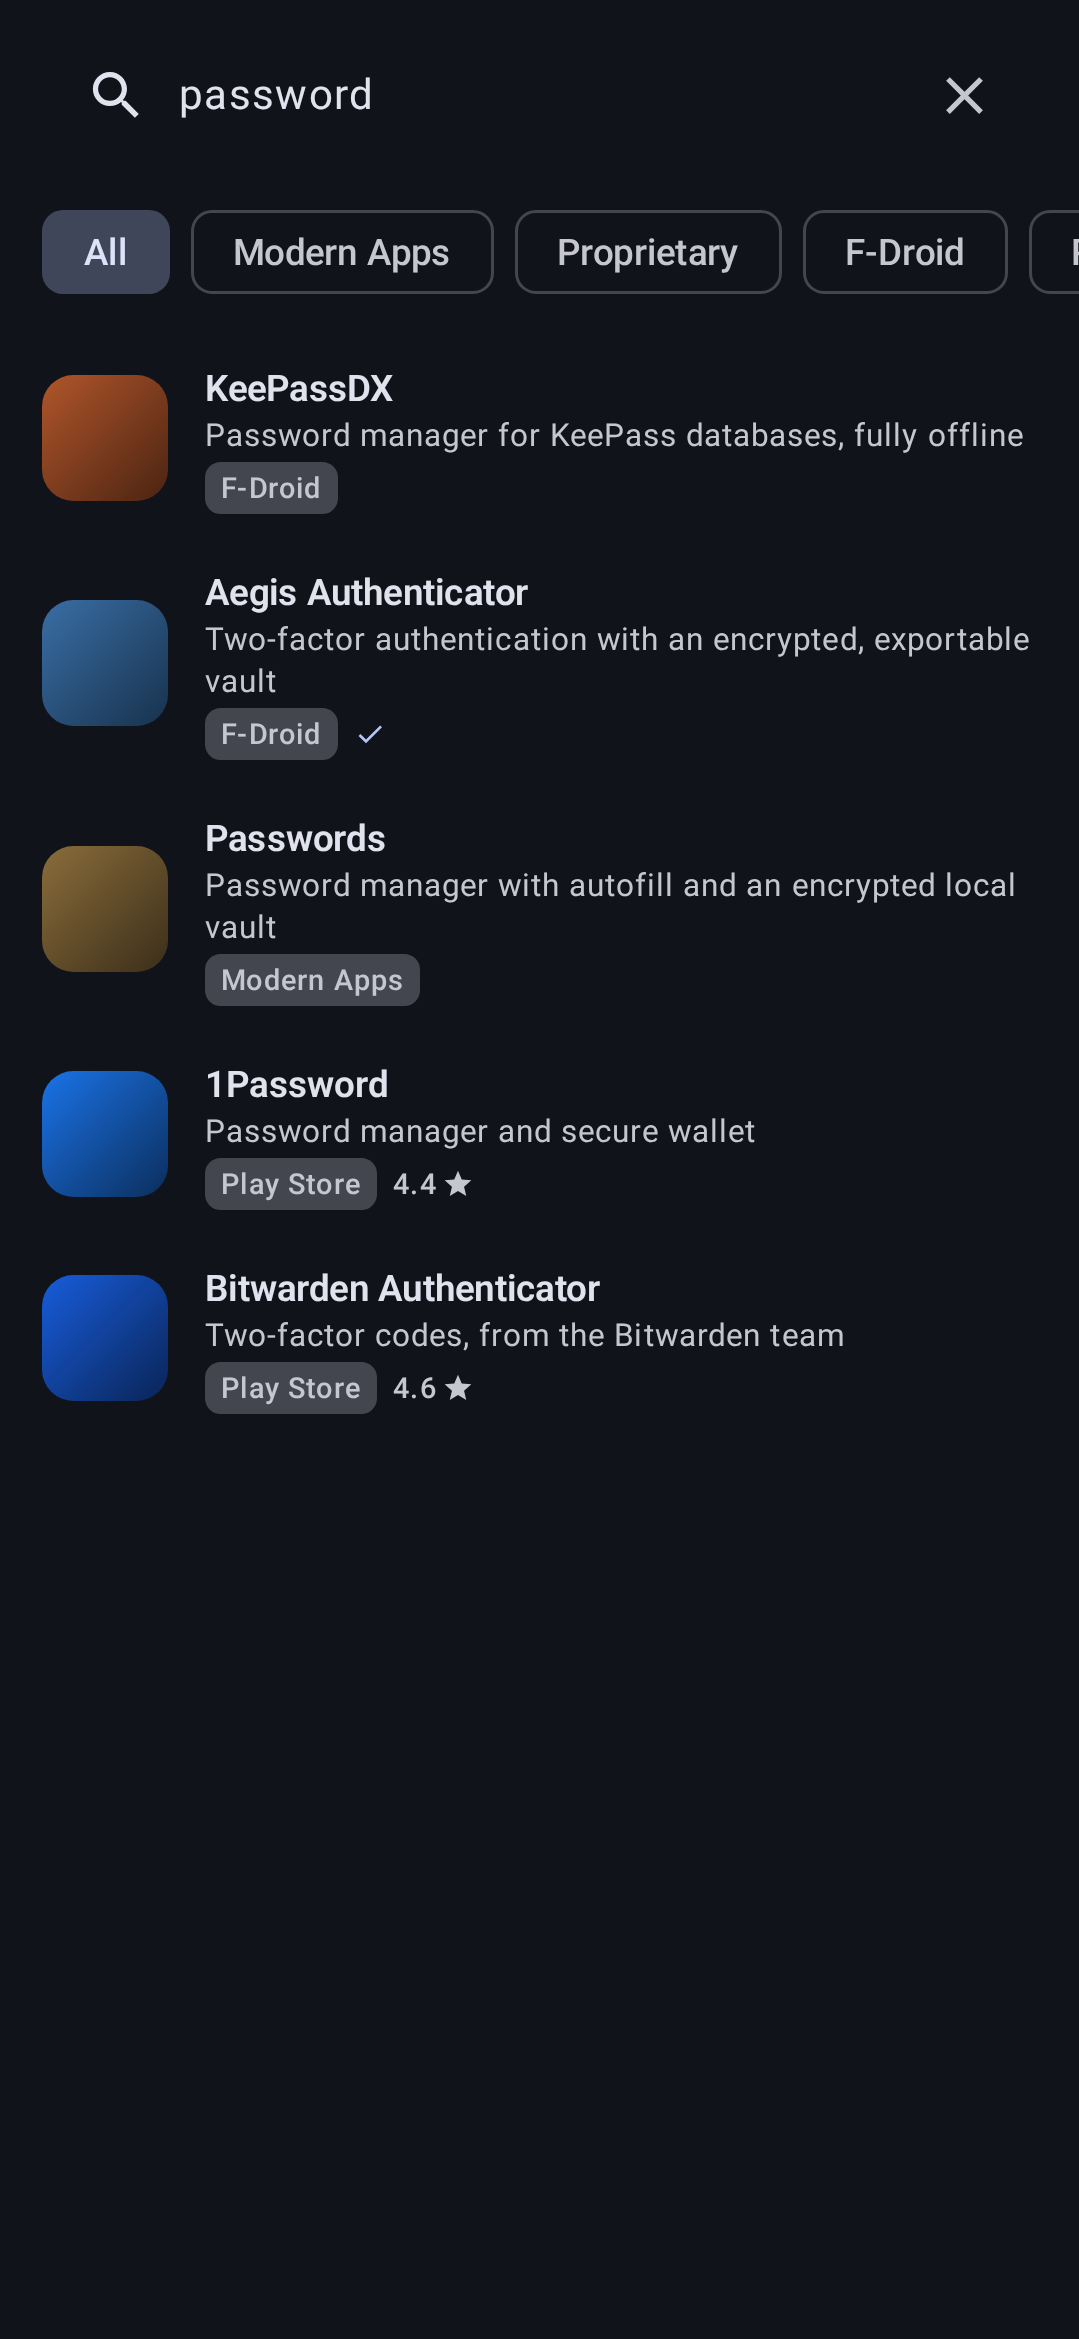
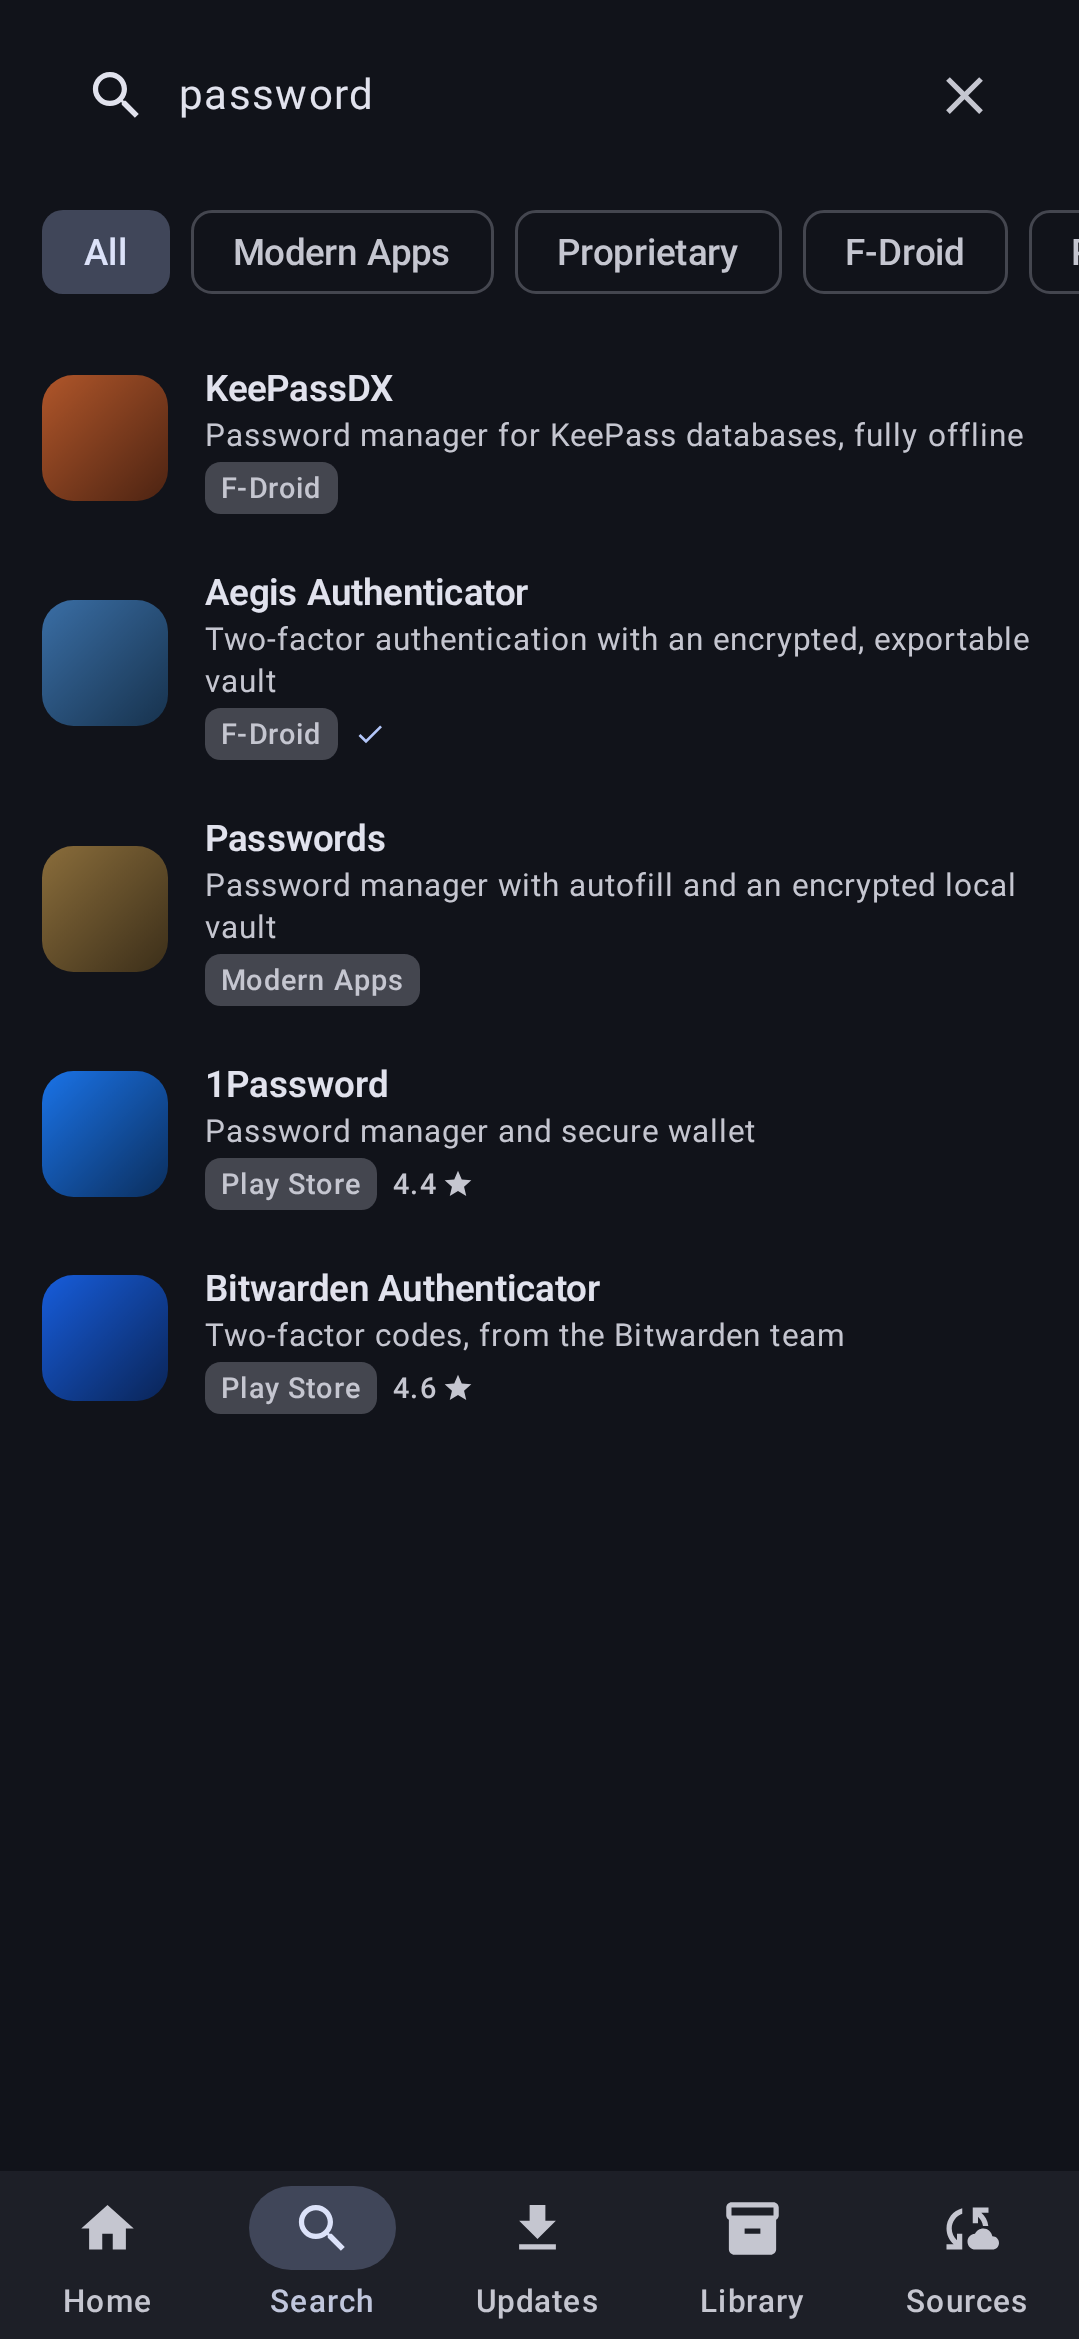
appstore+contacts: preview tab chrome in screenshots

diff --git a/appstore/src/screenshotTest/kotlin/com/vayunmathur/appstore/ui/MetadataPreviews.kt b/appstore/src/screenshotTest/kotlin/com/vayunmathur/appstore/ui/MetadataPreviews.kt
@@ -2,6 +2,7 @@ package com.vayunmathur.appstore.ui
 
 import android.graphics.drawable.Drawable
 import android.graphics.drawable.GradientDrawable
+import androidx.compose.foundation.pager.rememberPagerState
 import androidx.compose.runtime.Composable
 import androidx.compose.ui.tooling.preview.Preview
 import com.android.tools.screenshot.PreviewTest
@@ -14,10 +15,22 @@ import com.vayunmathur.appstore.util.AppDetailUiState
 import com.vayunmathur.appstore.util.AppSection
 import com.vayunmathur.appstore.util.HomeActions
 import com.vayunmathur.appstore.util.HomeUiState
+import com.vayunmathur.appstore.util.LibraryActions
+import com.vayunmathur.appstore.util.LibraryUiState
 import com.vayunmathur.appstore.util.SearchActions
 import com.vayunmathur.appstore.util.SearchUiState
 import com.vayunmathur.appstore.util.SectionLayout
+import com.vayunmathur.appstore.util.UpdatesActions
+import com.vayunmathur.appstore.util.UpdatesUiState
 import com.vayunmathur.library.ui.DynamicTheme
+import com.vayunmathur.library.ui.IconDownload
+import com.vayunmathur.library.ui.IconHome
+import com.vayunmathur.library.ui.IconPackage
+import com.vayunmathur.library.ui.IconProvider
+import com.vayunmathur.library.ui.IconSearch
+import com.vayunmathur.library.ui.PagerTab
+import com.vayunmathur.library.ui.TabStyle
+import com.vayunmathur.library.ui.TabbedPagerScaffold
 
 /** Phone-shaped, roughly 1080x2340 at xxhdpi — comfortably above the F-Droid minimum. */
 private const val PHONE = "spec:width=411dp,height=891dp,dpi=420"
@@ -64,6 +77,11 @@ private fun tile(top: Long, bottom: Long): Drawable =
  * The last slot goes to the "how apps are checked" page, because comparing what each
  * source actually guarantees is the thing that distinguishes this store from any other
  * F-Droid or Play client.
+ *
+ * Home, Search, Updates and Library render inside [ChromePreview] — the real
+ * [TabbedPagerScaffold] with the app's real tabs — so the bottom bar users see is
+ * in the shot. Detail and Trust are pushed routes with no tab bar on device, so
+ * they render bare, exactly as shipped. Only the selected tab is literal.
  */
 class MetadataPreviews {
 
@@ -71,41 +89,7 @@ class MetadataPreviews {
     @Preview(name = "1-home", device = PHONE, group = "phone", showSystemUi = true)
     @Composable
     fun Preview1Home() {
-        DynamicTheme(darkTheme = true) {
-            HomeScreen(
-                state = HomeUiState(
-                    sections = listOf(
-                        AppSection(
-                            id = "modern-recent",
-                            title = "New from Modern Apps",
-                            subtitle = "The newest builds from this repo",
-                            apps = MODERN,
-                        ),
-                        AppSection(
-                            id = "proprietary-recent",
-                            title = "New in Proprietary",
-                            subtitle = "The newest builds from the Play mirror",
-                            apps = PROPRIETARY,
-                        ),
-                        AppSection(
-                            id = "fdroid-recent",
-                            title = "New on F-Droid",
-                            subtitle = "The newest builds on F-Droid",
-                            apps = FDROID,
-                            layout = SectionLayout.LIST,
-                        ),
-                    ),
-                    categories = listOf("Security", "Internet", "Multimedia", "Writing"),
-                    updateCount = 3,
-                    installedPackages = setOf(
-                        "com.vayunmathur.calculator",
-                        "com.beemdevelopment.aegis",
-                    ),
-                    installedIcons = ICONS,
-                ),
-                actions = HomeActions.Noop,
-            )
-        }
+        ChromePreview(selectedTab = 0)
     }
 
     @PreviewTest
@@ -156,18 +140,7 @@ class MetadataPreviews {
     @Preview(name = "3-search", device = PHONE, group = "phone", showSystemUi = true)
     @Composable
     fun Preview3Search() {
-        DynamicTheme(darkTheme = true) {
-            SearchScreen(
-                state = SearchUiState(
-                    query = "password",
-                    results = SEARCH_HITS,
-                    hasSearched = true,
-                    installedPackages = setOf("com.beemdevelopment.aegis"),
-                    installedIcons = ICONS,
-                ),
-                actions = SearchActions.Noop,
-            )
-        }
+        ChromePreview(selectedTab = 1)
     }
 
     @PreviewTest
@@ -183,6 +156,128 @@ class MetadataPreviews {
                 initialFirstVisibleItem = 2,
             )
         }
+    }
+
+    @PreviewTest
+    @Preview(name = "5-updates", device = PHONE, group = "phone", showSystemUi = true)
+    @Composable
+    fun Preview5Updates() {
+        ChromePreview(selectedTab = 2)
+    }
+
+    @PreviewTest
+    @Preview(name = "6-library", device = PHONE, group = "phone", showSystemUi = true)
+    @Composable
+    fun Preview6Library() {
+        ChromePreview(selectedTab = 3)
+    }
+}
+
+@Composable
+private fun HomeContent() {
+    HomeScreen(
+        state = HomeUiState(
+            sections = listOf(
+                AppSection(
+                    id = "modern-recent",
+                    title = "New from Modern Apps",
+                    subtitle = "The newest builds from this repo",
+                    apps = MODERN,
+                ),
+                AppSection(
+                    id = "proprietary-recent",
+                    title = "New in Proprietary",
+                    subtitle = "The newest builds from the Play mirror",
+                    apps = PROPRIETARY,
+                ),
+                AppSection(
+                    id = "fdroid-recent",
+                    title = "New on F-Droid",
+                    subtitle = "The newest builds on F-Droid",
+                    apps = FDROID,
+                    layout = SectionLayout.LIST,
+                ),
+            ),
+            categories = listOf("Security", "Internet", "Multimedia", "Writing"),
+            updateCount = 3,
+            installedPackages = setOf(
+                "com.vayunmathur.calculator",
+                "com.beemdevelopment.aegis",
+            ),
+            installedIcons = ICONS,
+        ),
+        actions = HomeActions.Noop,
+    )
+}
+
+@Composable
+private fun SearchContent() {
+    SearchScreen(
+        state = SearchUiState(
+            query = "password",
+            results = SEARCH_HITS,
+            hasSearched = true,
+            installedPackages = setOf("com.beemdevelopment.aegis"),
+            installedIcons = ICONS,
+        ),
+        actions = SearchActions.Noop,
+    )
+}
+
+@Composable
+private fun UpdatesContent() {
+    UpdatesScreen(
+        state = UpdatesUiState(
+            updates = listOf(AEGIS),
+            installedIcons = ICONS,
+            installedInfos = mapOf(
+                "com.beemdevelopment.aegis" to InstalledInfo(
+                    packageName = "com.beemdevelopment.aegis",
+                    name = "Aegis Authenticator",
+                    versionName = "3.4.0",
+                    versionCode = 340,
+                ),
+            ),
+            lastCheckedAt = 1_785_566_534_600,
+        ),
+        actions = UpdatesActions.Noop,
+    )
+}
+
+@Composable
+private fun LibraryContent() {
+    LibraryScreen(
+        state = LibraryUiState(
+            apps = MODERN + FDROID,
+            installedIcons = ICONS,
+        ),
+        actions = LibraryActions.Noop,
+    )
+}
+
+/**
+ * The app's real tab chrome around preview screen content: the same
+ * [TabbedPagerScaffold] in [TabStyle.BottomNav] with the same five tabs that
+ * `AppTabs` declares — the pager starts on [selectedTab], so the bar highlights
+ * the shown screen. The Sources tab needs the ViewModel, so it shows an empty
+ * page (never visible — only the selected tab renders); everything else is the
+ * real screen with literal state.
+ */
+@Composable
+private fun ChromePreview(selectedTab: Int) {
+    DynamicTheme(darkTheme = true) {
+        val tabs = listOf(
+            PagerTab("Home", { IconHome() }) { HomeContent() },
+            PagerTab("Search", { IconSearch() }) { SearchContent() },
+            PagerTab("Updates", { IconDownload() }) { UpdatesContent() },
+            PagerTab("Library", { IconPackage() }) { LibraryContent() },
+            PagerTab("Sources", { IconProvider() }) { },
+        )
+        TabbedPagerScaffold(
+            tabs = tabs,
+            pagerState = rememberPagerState(initialPage = selectedTab, pageCount = { tabs.size }),
+            tabStyle = TabStyle.BottomNav,
+        )
     }
 }
 

diff --git a/contacts/src/screenshotTest/kotlin/com/vayunmathur/contacts/ui/MetadataPreviews.kt b/contacts/src/screenshotTest/kotlin/com/vayunmathur/contacts/ui/MetadataPreviews.kt
@@ -1,6 +1,10 @@
 package com.vayunmathur.contacts.ui
 
+import androidx.compose.foundation.layout.Box
+import androidx.compose.foundation.layout.fillMaxSize
+import androidx.compose.foundation.pager.rememberPagerState
 import androidx.compose.runtime.Composable
+import androidx.compose.ui.Modifier
 import androidx.compose.ui.tooling.preview.Preview
 import com.android.tools.screenshot.PreviewTest
 import com.vayunmathur.contacts.data.Address
@@ -26,6 +30,12 @@ import com.vayunmathur.contacts.util.ContactsActions
 import com.vayunmathur.contacts.util.GroupWithContacts
 import com.vayunmathur.contacts.util.GroupsUiState
 import com.vayunmathur.library.ui.DynamicTheme
+import com.vayunmathur.library.ui.IconGroup
+import com.vayunmathur.library.ui.IconPerson
+import com.vayunmathur.library.ui.IconSettings
+import com.vayunmathur.library.ui.PagerTab
+import com.vayunmathur.library.ui.TabStyle
+import com.vayunmathur.library.ui.TabbedPagerScaffold
 import kotlinx.datetime.LocalDate
 
 /** Phone-shaped, roughly 1080x2340 at xxhdpi — comfortably above the F-Droid minimum. */
@@ -134,15 +144,7 @@ class MetadataPreviews {
     @Preview(name = "1-list", device = PHONE, group = "phone", showSystemUi = true)
     @Composable
     fun Preview1List() {
-        DynamicTheme(darkTheme = true) {
-            ContactListScreen(
-                state = ContactListUiState(
-                    contacts = SAMPLE_CONTACTS,
-                    groups = GROUPS,
-                ),
-                actions = ContactsActions.Noop,
-            )
-        }
+        ChromePreview(selectedTab = 0)
     }
 
     @PreviewTest
@@ -164,13 +166,50 @@ class MetadataPreviews {
     @Preview(name = "3-groups", device = PHONE, group = "phone", showSystemUi = true)
     @Composable
     fun Preview3Groups() {
-        DynamicTheme(darkTheme = true) {
-            GroupsScreen(
-                state = GroupsUiState(groups = GROUPS.map { groupRow(it) }),
-                actions = ContactsActions.Noop,
-                // Friends starts expanded, so the shot shows what a group contains.
-                expandGroupId = FRIENDS.id,
-            )
-        }
+        ChromePreview(selectedTab = 1)
+    }
+}
+
+@Composable
+private fun ListContent() {
+    ContactListScreen(
+        state = ContactListUiState(
+            contacts = SAMPLE_CONTACTS,
+            groups = GROUPS,
+        ),
+        actions = ContactsActions.Noop,
+    )
+}
+
+@Composable
+private fun GroupsContent() {
+    GroupsScreen(
+        state = GroupsUiState(groups = GROUPS.map { groupRow(it) }),
+        actions = ContactsActions.Noop,
+        // Friends starts expanded, so the shot shows what a group contains.
+        expandGroupId = FRIENDS.id,
+    )
+}
+
+/**
+ * The app's real tab chrome around preview screen content: the same
+ * [TabbedPagerScaffold] with the same three tabs the activity declares. The
+ * Settings tab is ViewModel-coupled with no stateless slice, so it shows an
+ * empty page (never visible — only the selected tab renders); list and groups
+ * are the real screens with literal state.
+ */
+@Composable
+private fun ChromePreview(selectedTab: Int) {
+    DynamicTheme(darkTheme = true) {
+        val tabs = listOf(
+            PagerTab("Contacts", { IconPerson() }) { ListContent() },
+            PagerTab("Groups", { IconGroup() }) { GroupsContent() },
+            PagerTab("Settings", { IconSettings() }) { Box(Modifier.fillMaxSize()) },
+        )
+        TabbedPagerScaffold(
+            tabs = tabs,
+            pagerState = rememberPagerState(initialPage = selectedTab, pageCount = { tabs.size }),
+            tabStyle = TabStyle.BottomNav,
+        )
     }
 }
